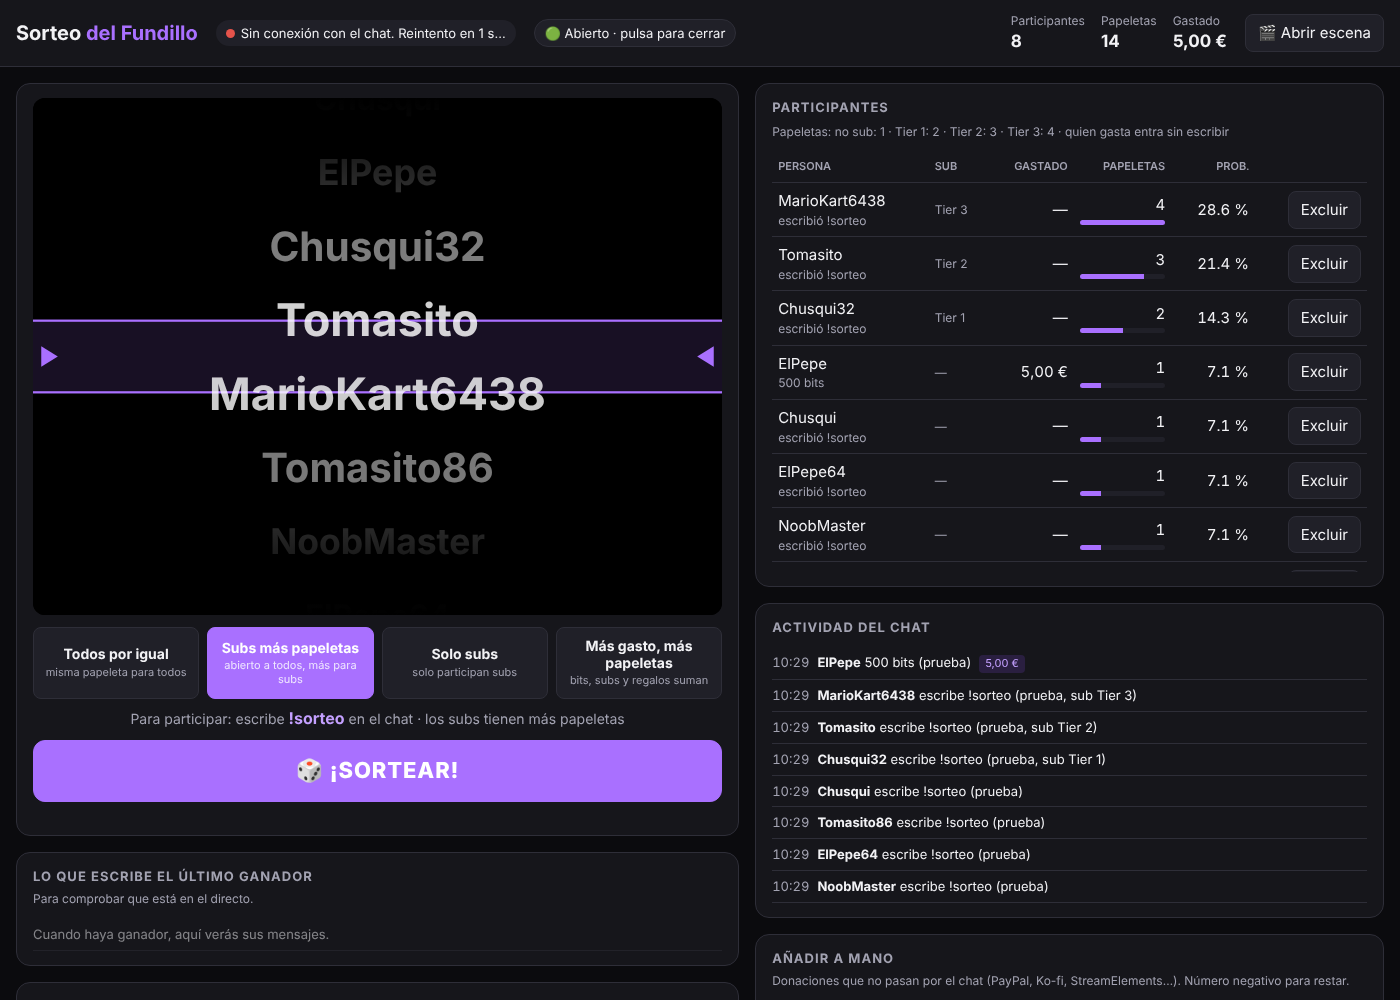
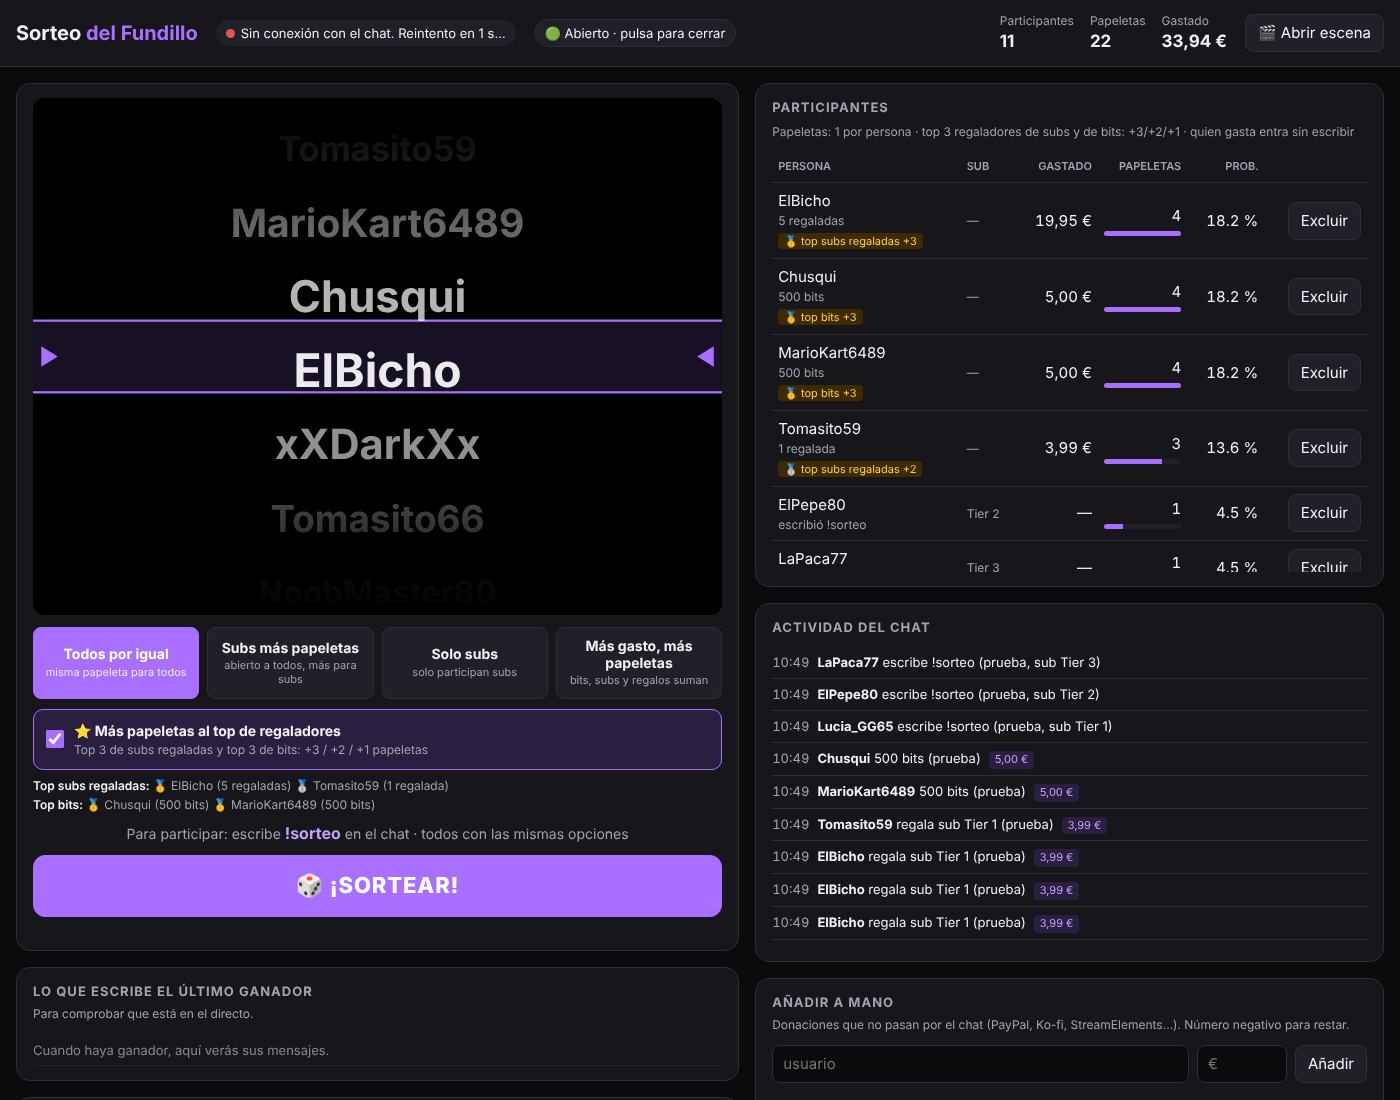
Añade casilla para dar papeletas extra al top de regaladores
Con la casilla marcada, el top 3 de subs regaladas y el top 3 de bits
reciben +3/+2/+1 papeletas (configurable). Los empates comparten puesto,
quien está en ambos tops suma los dos extras y el bonus no mete a nadie
que el modo deja fuera. El panel muestra el top actual con medallas y la
escena lo menciona en la barra de anuncio.

Claude-Session: https://claude.ai/code/session_01RMqmjQ5F9H6emFyKHDTTkK

diff --git a/sorteo/index.html b/sorteo/index.html
@@ -72,6 +72,14 @@
   .modos button span { display: block; font-size: 11px; color: var(--suave); margin-top: 3px; }
   .modos button.activo { background: var(--acento); border-color: var(--acento); color: #fff; }
   .modos button.activo span { color: #efe6ff; }
+  .bonus { display: flex; align-items: center; gap: 10px; margin-top: 10px; padding: 10px 12px; border: 1px solid var(--borde); border-radius: 10px; cursor: pointer; background: var(--panel2); }
+  .bonus:has(input:checked) { border-color: var(--acento); background: #2a1f40; }
+  .bonus input { width: 18px; height: 18px; accent-color: var(--acento); flex: none; margin: 0; }
+  .bonus b { font-size: 14px; } .bonus span { display: block; font-size: 12px; color: var(--suave); }
+  .tops { display: none; font-size: 12px; color: var(--suave); margin-top: 6px; line-height: 1.6; }
+  .tops.visible { display: block; }
+  .tops b { color: var(--texto); font-weight: 600; }
+  .tag.top { background: #3d2a00; color: #ffd23f; }
   .entrada-chat { text-align: center; font-size: 14px; color: var(--suave); margin-top: 8px; }
   .entrada-chat b { color: var(--acento2); font-size: 16px; }
   .ayuda { font-size: 13px; color: var(--suave); }
@@ -101,6 +109,11 @@
         <canvas id="confeti"></canvas>
       </div>
       <div class="modos" id="modos" role="group" aria-label="Modo del sorteo"></div>
+      <label class="bonus">
+        <input type="checkbox" id="chkBonus">
+        <div><b>⭐ Más papeletas al top de regaladores</b><span id="bonusDesc"></span></div>
+      </label>
+      <div class="tops" id="tops"></div>
       <div class="entrada-chat" id="comoEntrar"></div>
       <button class="acento btn-sortear" id="btnSortear">🎲 ¡SORTEAR!</button>
       <div class="error" id="errSortear"></div>
@@ -186,6 +199,7 @@
           <button data-sim="bits">+500 bits</button>
           <button data-sim="sub">+Sub</button>
           <button data-sim="regalo">+Sub regalada</button>
+          <button data-sim="regalo5">+5 regaladas de una persona</button>
           <button data-sim="hypechat">+Hype Chat 5 €</button>
         </div>
         <p></p>
@@ -257,9 +271,16 @@ function detalle(p) {
   if (d.manual) t.push('manual ' + eur(d.manual));
   return t.join(' · ');
 }
+const MEDALLA = { 1: '🥇', 2: '🥈', 3: '🥉' };
+function etiquetasTop(p) {
+  const t = [];
+  if (p.top.regalos) t.push(el('span', { className: 'tag top', textContent: `${MEDALLA[p.top.regalos]} top subs regaladas +${aj['bonusTop' + p.top.regalos]}` }));
+  if (p.top.bits) t.push(el('span', { className: 'tag top', textContent: `${MEDALLA[p.top.bits]} top bits +${aj['bonusTop' + p.top.bits]}` }));
+  return t;
+}
 
 function resumenParaEscena(l) {
-  return { tipo: 'estado', canal: aj.canal, abierto: estado.abierto, palabraClave: aj.palabraClave, modo: aj.modo,
+  return { tipo: 'estado', canal: aj.canal, abierto: estado.abierto, palabraClave: aj.palabraClave, modo: aj.modo, bonusTop: !!aj.bonusTop,
     totalPapeletas: l.totalPapeletas, participantes: l.participantes.filter((p) => p.papeletas > 0).map((p) => ({ nombre: p.nombre, papeletas: p.papeletas })) };
 }
 
@@ -276,6 +297,8 @@ function pintarYa() {
   $('nEur').textContent = eur(l.participantes.reduce((a, p) => a + p.euros, 0));
   const palabra = (aj.palabraClave || '').trim();
   pintarModos();
+  $('chkBonus').checked = !!aj.bonusTop;
+  $('bonusDesc').textContent = `Top 3 de subs regaladas y top 3 de bits: +${aj.bonusTop1} / +${aj.bonusTop2} / +${aj.bonusTop3} papeletas`;
   const pal = () => el('b', { textContent: palabra });
   const como = {
     igual: ['Para participar: escribe ', pal(), ' en el chat · todos con las mismas opciones'],
@@ -293,7 +316,12 @@ function pintarYa() {
     partes.push(`+1 por cada ${eur(aj.eurosPorPapeleta)} gastado`);
     if (aj.minimaSiHaGastado) partes.push(`mínimo ${aj.minimaSiHaGastado} si gasta algo`);
   }
+  if (aj.bonusTop) partes.push(`top 3 regaladores de subs y de bits: +${aj.bonusTop1}/+${aj.bonusTop2}/+${aj.bonusTop3}`);
   if (aj.maximo) partes.push(`máximo ${aj.maximo} por persona`);
+  const lineaTop = (titulo, lista, unidad) => [el('b', { textContent: titulo + ': ' }),
+    lista.length ? lista.map((t) => `${MEDALLA[t.puesto]} ${t.nombre} (${t.cantidad.toLocaleString('es-ES')} ${unidad(t.cantidad)})`).join('  ') : 'nadie todavía'];
+  $('tops').classList.toggle('visible', !!aj.bonusTop);
+  $('tops').replaceChildren(...lineaTop('Top subs regaladas', l.tops.regalos, (n) => n === 1 ? 'regalada' : 'regaladas'), el('br'), ...lineaTop('Top bits', l.tops.bits, (n) => n === 1 ? 'bit' : 'bits'));
   if (palabra) partes.push(aj.gastanEntranSinEscribir ? 'quien gasta entra sin escribir' : 'quien gasta también tiene que escribir');
   $('reglas').textContent = 'Papeletas: ' + partes.join(' · ');
 
@@ -308,7 +336,8 @@ function pintarYa() {
     const btn = el('button', { textContent: p.excluido ? 'Readmitir' : 'Excluir' });
     btn.onclick = () => { estado.participantes[p.login].excluido = !p.excluido; guardar(); pintar(); };
     tabla.append(el('tr', { className: p.excluido ? 'excluido' : (p.papeletas ? '' : 'sin') },
-      el('td', {}, el('div', { textContent: p.nombre }), el('div', { className: 'det', textContent: detalle(p) })),
+      el('td', {}, el('div', { textContent: p.nombre }), el('div', { className: 'det', textContent: detalle(p) }),
+        ...(aj.bonusTop ? [el('div', {}, ...etiquetasTop(p))] : [])),
       el('td', { className: 'det', textContent: p.tier ? 'Tier ' + p.tier : '—' }),
       el('td', { className: 'num', textContent: p.euros ? eur(p.euros) : '—' }),
       el('td', { className: 'num' }, el('div', { textContent: p.papeletas }), el('div', { className: 'barra' }, el('i', { style: `width:${(p.papeletas / max) * 100}%` }))),
@@ -352,6 +381,14 @@ const DESC_MODOS = {
   soloSubs: 'solo participan subs',
   gasto: 'bits, subs y regalos suman',
 };
+$('chkBonus').onchange = (e) => {
+  if (girando) { e.target.checked = !!aj.bonusTop; return; }
+  aj.bonusTop = e.target.checked;
+  escribir('fundillo-ajustes', aj);
+  construirAjustes();
+  pintar();
+};
+
 function pintarModos() {
   const caja = $('modos');
   if (!caja.children.length) {
@@ -432,6 +469,7 @@ document.querySelectorAll('[data-sim]').forEach((b) => b.onclick = () => {
     bits: () => ({ tipo: 'bits', cantidad: 500, euros: 500 * v.bit, texto: '500 bits (prueba)' }),
     sub: () => ({ tipo: 'sub', cantidad: 1, euros: v.subTier1, texto: 'Sub Tier 1 (prueba)' }),
     regalo: () => ({ tipo: 'regalo', cantidad: 1, euros: v.subTier1, texto: 'regala sub Tier 1 (prueba)' }),
+    regalo5: () => ({ tipo: 'regalo', cantidad: 1, euros: v.subTier1, texto: 'regala sub Tier 1 (prueba)' }),
     hypechat: () => ({ tipo: 'hypechat', cantidad: 5, euros: 5, texto: 'Hype Chat 5 EUR (prueba)' }),
   }[tipo];
   if (tipo === 'subs') {
@@ -442,8 +480,9 @@ document.querySelectorAll('[data-sim]').forEach((b) => b.onclick = () => {
     }
     guardar(); pintar(); return;
   }
-  for (let i = 0; i < (tipo === 'entrada' ? 5 : 1); i++) {
-    const n = nombre();
+  const fijo = tipo === 'regalo5' ? nombre() : null;
+  for (let i = 0; i < (tipo === 'entrada' || tipo === 'regalo5' ? 5 : 1); i++) {
+    const n = fijo || nombre();
     Nucleo.registrar(estado, Object.assign({ id: 'prueba-' + Date.now() + '-' + nSim++, login: n.toLowerCase(), nombre: n }, crea()), aj);
   }
   guardar(); pintar();
@@ -477,6 +516,11 @@ const CAMPOS = [
   ['papeletasTier1', 'Papeletas Tier 1 / Prime', 'number'],
   ['papeletasTier2', 'Papeletas Tier 2', 'number'],
   ['papeletasTier3', 'Papeletas Tier 3', 'number'],
+  ['h', 'Extra para el top de regaladores (subs regaladas y bits)'],
+  ['bonusTop', 'Activado (también con la casilla ⭐ de arriba)', 'check'],
+  ['bonusTop1', 'Papeletas extra al 1º', 'number'],
+  ['bonusTop2', 'Papeletas extra al 2º', 'number'],
+  ['bonusTop3', 'Papeletas extra al 3º', 'number'],
   ['h', 'Modo «Más gasto, más papeletas»'],
   ['papeletasPorEscribir', 'Papeletas por escribir la palabra', 'number'],
   ['eurosPorPapeleta', '€ por cada papeleta extra', 'number'],

diff --git a/sorteo/js/nucleo.js b/sorteo/js/nucleo.js
@@ -17,6 +17,11 @@
     papeletasTier1: 2,
     papeletasTier2: 3,
     papeletasTier3: 4,
+    // Extra para el top 3 de quien más subs regala y quien más bits da
+    bonusTop: false,
+    bonusTop1: 3,
+    bonusTop2: 2,
+    bonusTop3: 1,
     papeletasPorEscribir: 1,
     // Gasto
     gastanEntranSinEscribir: true,
@@ -177,7 +182,9 @@
     return !!p && !p.excluido && (p.escribio || (p.euros > 0 && !!aj.gastanEntranSinEscribir));
   }
 
-  function papeletasDe(p, aj, tier) {
+  // `extra`: papeletas de bonus (top de regaladores). Solo se suman a quien ya
+  // participa en el modo elegido (en "Solo subs", alguien que no es sub sigue fuera).
+  function papeletasDe(p, aj, tier, extra) {
     if (!participa(p, aj)) return 0;
     tier = tier == null ? (p.tier || 0) : tier;
     const num = (v) => Math.max(0, Number(v) || 0);
@@ -197,6 +204,7 @@
       }
       default: n = 1; // 'igual'
     }
+    if (n > 0 && extra > 0) n += extra;
     const max = num(aj.maximo);
     if (max > 0) n = Math.min(n, max);
     return n;
@@ -278,16 +286,40 @@
     return ev;
   }
 
+  // Top 3 por un campo del detalle (regalos o bits). Empates comparten puesto.
+  // Devuelve [{ login, nombre, cantidad, puesto }] con puesto 1..3.
+  function top3(participantes, campo) {
+    const orden = participantes.filter((p) => p.detalle && p.detalle[campo] > 0)
+      .sort((a, b) => b.detalle[campo] - a.detalle[campo] || a.nombre.localeCompare(b.nombre));
+    const res = [];
+    orden.forEach((p, i) => {
+      const puesto = i > 0 && p.detalle[campo] === orden[i - 1].detalle[campo] ? res[i - 1].puesto : i + 1;
+      if (puesto <= 3) res.push({ login: p.login, nombre: p.nombre, cantidad: p.detalle[campo], puesto });
+    });
+    return res;
+  }
+
   function lista(estado, aj) {
     const tiers = estado.tiers || {};
-    const ps = Object.values(estado.participantes).map((p) => {
+    const todos = Object.values(estado.participantes);
+    const tops = { regalos: top3(todos, 'regalos'), bits: top3(todos, 'bits') };
+    const premio = (puesto) => Math.max(0, Number(aj['bonusTop' + puesto]) || 0);
+    const ps = todos.map((p) => {
       const tier = tiers[p.login] || 0;
-      return Object.assign({}, p, { tier, papeletas: papeletasDe(p, aj, tier) });
+      const top = {};
+      let extra = 0;
+      if (aj.bonusTop) {
+        for (const campo of ['regalos', 'bits']) {
+          const t = tops[campo].find((x) => x.login === p.login);
+          if (t) { top[campo] = t.puesto; extra += premio(t.puesto); }
+        }
+      }
+      return Object.assign({}, p, { tier, top, extra, papeletas: papeletasDe(p, aj, tier, extra) });
     });
     const total = ps.reduce((a, p) => a + p.papeletas, 0);
     ps.forEach((p) => { p.probabilidad = total ? p.papeletas / total : 0; });
     ps.sort((a, b) => b.papeletas - a.papeletas || b.euros - a.euros || a.nombre.localeCompare(b.nombre));
-    return { participantes: ps, totalPapeletas: total };
+    return { participantes: ps, totalPapeletas: total, tops };
   }
 
   // Tira de nombres que pasa por pantalla: aparecen más veces quienes tienen
@@ -337,7 +369,7 @@
     return { tira, indiceGanador, ganador, duracionMs };
   }
 
-  const Nucleo = { AJUSTES_DEFECTO, MODOS, tierDeEtiquetas, participa, mezclarAjustes, parseLine, autor, texto, accionesDesdeMensaje,
+  const Nucleo = { AJUSTES_DEFECTO, MODOS, tierDeEtiquetas, participa, top3, mezclarAjustes, parseLine, autor, texto, accionesDesdeMensaje,
     papeletasDe, elegirPonderado, estadoVacio, registrar, lista, sortear, construirTira };
 
   if (typeof module !== 'undefined' && module.exports) module.exports = Nucleo;

diff --git a/sorteo/test/sorteo.test.js b/sorteo/test/sorteo.test.js
@@ -181,3 +181,34 @@ test('en la tira sale más quien tiene más papeletas', () => {
   const cuenta = (x) => tira.filter((n) => n === x).length;
   assert.ok(cuenta('Mucho') > cuenta('Medio') && cuenta('Medio') > cuenta('Poco'));
 });
+
+test('bonus para el top 3 de regaladores de subs y de bits', () => {
+  const e = N.estadoVacio();
+  const meter = (login, tipo, cantidad, veces = 1) => {
+    for (let i = 0; i < veces; i++) N.registrar(e, { id: `${login}${tipo}${i}`, login, nombre: login, tipo, cantidad, euros: tipo === 'bits' ? cantidad / 100 : 3.99, texto: '' }, aj);
+  };
+  meter('reina', 'regalo', 1, 10);   // top 1 regalos
+  meter('rey', 'regalo', 1, 5);      // top 2 regalos (empata con duque)
+  meter('duque', 'regalo', 1, 5);    // top 2 regalos
+  meter('conde', 'regalo', 1, 1);    // puesto 4 -> nada
+  meter('bitero', 'bits', 1000);     // top 1 bits
+  meter('reina', 'bits', 500);       // top 2 bits
+  meter('poco', 'bits', 100);        // top 3 bits
+  N.registrar(e, { id: 'n', login: 'normal', tipo: 'entrada', texto: '' }, aj);
+
+  const papeletas = (extra) => Object.fromEntries(N.lista(e, { ...aj, modo: 'igual', ...extra }).participantes.map((p) => [p.login, p.papeletas]));
+  assert.deepEqual(papeletas({ bonusTop: false }), { reina: 1, rey: 1, duque: 1, conde: 1, bitero: 1, poco: 1, normal: 1 });
+  // reina: 1 + 3 (top1 regalos) + 2 (top2 bits); rey/duque: 1 + 2; bitero: 1 + 3; poco: 1 + 1
+  assert.deepEqual(papeletas({ bonusTop: true }), { reina: 6, rey: 3, duque: 3, conde: 1, bitero: 4, poco: 2, normal: 1 });
+  assert.deepEqual(papeletas({ bonusTop: true, bonusTop1: 10, bonusTop2: 0, bonusTop3: 0 }).reina, 11 + 0);
+
+  // En "Solo subs" el bonus no mete a quien no es sub
+  N.registrar(e, { tipo: 'tier', login: 'rey', tier: 1 }, aj);
+  const soloSubs = papeletas({ bonusTop: true, modo: 'soloSubs' });
+  assert.equal(soloSubs.reina, 0);
+  assert.equal(soloSubs.rey, 3);
+
+  const { tops } = N.lista(e, { ...aj, bonusTop: true });
+  assert.deepEqual(tops.regalos.map((t) => [t.login, t.puesto]), [['reina', 1], ['duque', 2], ['rey', 2]]);
+  assert.deepEqual(tops.bits.map((t) => [t.login, t.cantidad, t.puesto]), [['bitero', 1000, 1], ['reina', 500, 2], ['poco', 100, 3]]);
+});

diff --git a/sorteo/escena.html b/sorteo/escena.html
@@ -69,7 +69,8 @@ function pintarEstado(s) {
       soloSubs: ['Sorteo solo para subs · escribe ', b(), ' para entrar'],
       gasto: ['Escribe ', b(), ' para entrar al sorteo · bits y subs te dan más opciones de ganar'],
     };
-    a.replaceChildren(...(palabra ? (textos[s.modo] || textos.igual) : ['Bits, subs y regalos te meten en el sorteo']));
+    a.replaceChildren(...(palabra ? (textos[s.modo] || textos.igual) : ['Bits, subs y regalos te meten en el sorteo']),
+      ...(s.bonusTop ? [' · ', Object.assign(document.createElement('b'), { textContent: 'el top de regaladores tiene premio extra' })] : []));
   }
 }
 

diff --git a/sorteo/README.md b/sorteo/README.md
@@ -29,6 +29,14 @@ se recalculan al instante y nadie desaparece de la lista.
 En todos los modos, quien gasta (bits, subs, regalos, Hype Chat) entra aunque no escriba la palabra (se puede desactivar).
 Las papeletas de cada tier, el máximo por persona y el resto se cambian en **Ajustes**.
 
+### ⭐ Extra para el top de regaladores
+
+Debajo de los modos hay una casilla **«Más papeletas al top de regaladores»**. Si la marcas, los 3 que más subs han
+regalado y los 3 que más bits han dado durante el sorteo reciben papeletas extra: **+3 al 1º, +2 al 2º y +1 al 3º**
+(se cambia en Ajustes). Quien está en los dos tops suma los dos extras. Si hay empate, comparten puesto.
+Funciona con cualquier modo, pero no mete a nadie que el modo deja fuera (en *Solo subs*, un regalador que no es sub
+sigue sin participar). El panel muestra el top actual y una medalla junto a cada persona.
+
 **Cómo sabe si alguien es sub y de qué tier:** por la insignia de sub que Twitch manda con cada mensaje del chat
 (Tier 2 y Tier 3 llevan su propia numeración de insignia), y por los avisos de sub, resub y sub regalada que salen
 durante el directo. Una sub regalada convierte en sub a quien la recibe. Los fundadores cuentan como Tier 1.
